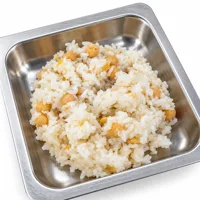
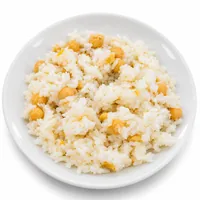
Üniversite Evi: 7 yemeğin fotoğrafı tabaklı haliyle değiştirildi
Claude-Session: https://claude.ai/code/session_018TLhX9t37yRVH7CmumiBZP

diff --git a/sw.js b/sw.js
@@ -1,7 +1,7 @@
 /* KampüsCepte service worker — sayfalar internet yokken de açılsın.
    Sayfalar ve veri.js önce internetten (güncel menü için), olmazsa önbellekten gelir.
    Görseller, PDF'ler ve yazı tipleri önce önbellekten gelir. */
-const SURUM = "kc-v174";
+const SURUM = "kc-v175";
 const TEMEL = ["./", "index.html", "veri.js", "cerez.js", "tema.js", "favicon.svg", "manifest.webmanifest",
                "ikonlar/ikon-192.png", "ikonlar/ikon-512.png", "masaustu.css", "uygulama.css", "kodatolye.js", "dersler.html", "gizlilik.html", "hakkimizda.html", "404.html"];
 
